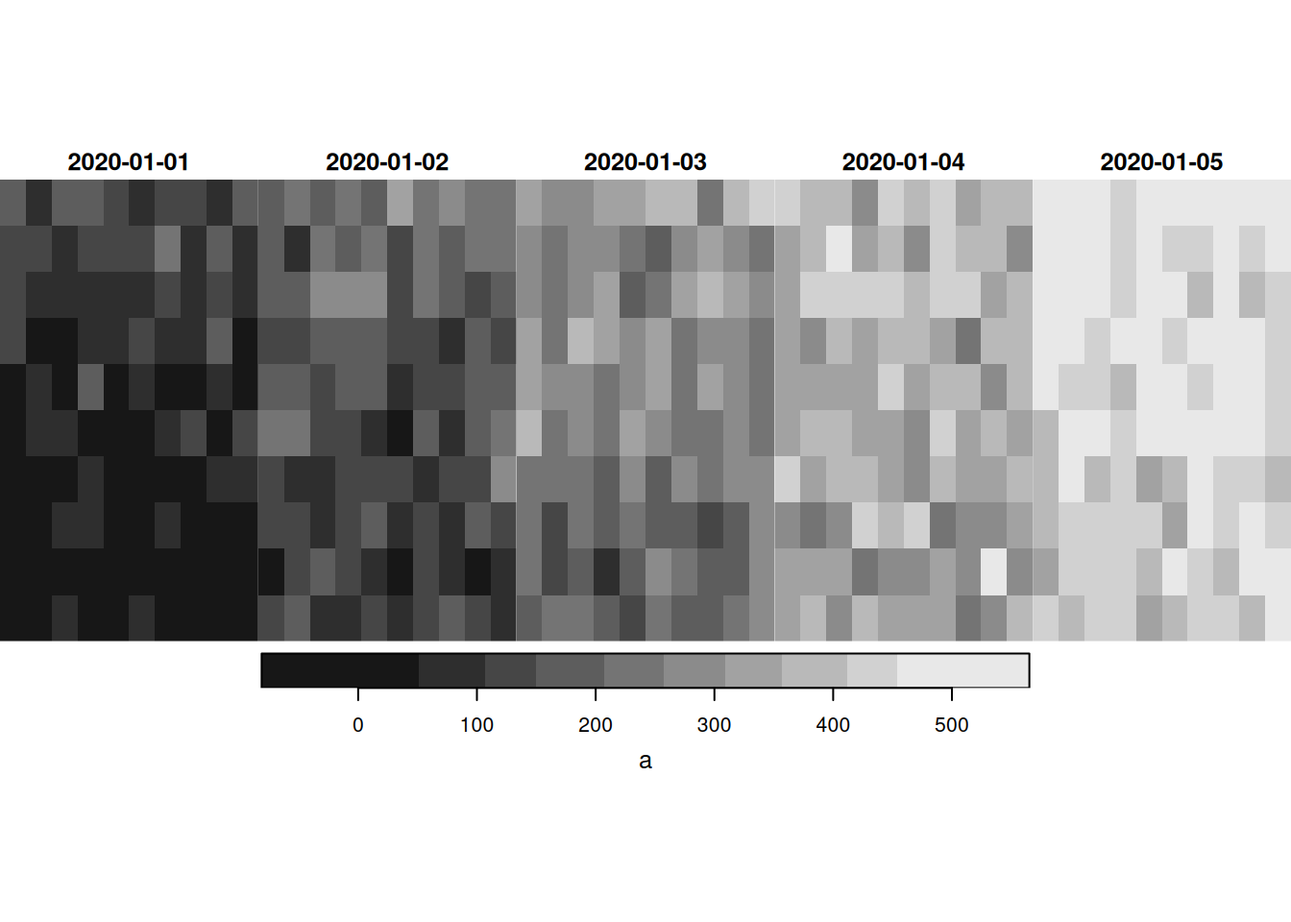
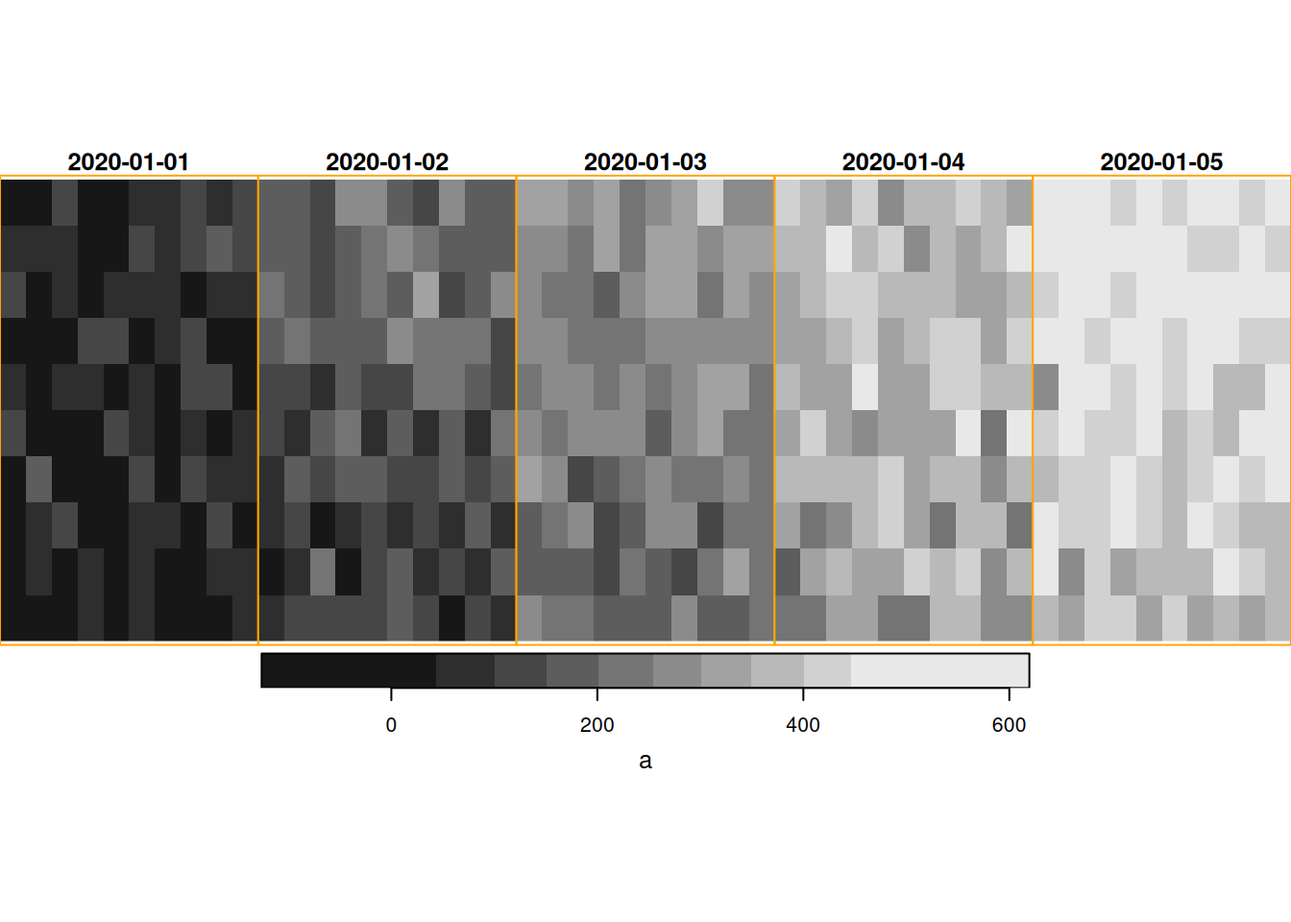
update

diff --git a/docs/index.html b/docs/index.html
@@ -82,7 +82,8 @@ pre > code.sourceCode > span > a:first-child::before { text-decoration: underlin
 
 <section id="raster-and-vector-data-cubes-in-r-and-python" class="level1">
 <h1>Raster and vector data cubes in R and Python</h1>
-<p>Edzer Pebesma, GitHub Copilot, 2024-06-19</p>
+<p>OpenGeoHub summer school tutorial Tue 2024-09-02, 13:30-15:00</p>
+<p>Authors: Edzer Pebesma, GitHub Copilot</p>
 <section id="what-is-an-array" class="level2">
 <h2 class="anchored" data-anchor-id="what-is-an-array">What is an array?</h2>
 <p>An array is a data structure that can hold multiple values in more than two dimensions. It is a generalization of matrices to higher dimensions. Arrays can be used to represent multi-dimensional data, such as images, videos, or spatial-temporal datasets.</p>
@@ -1129,6 +1130,10 @@ pre > code.sourceCode > span > a:first-child::before { text-decoration: underlin
 </div>
 </div>
 </section>
+<section id="linear-algebra-on-arrays" class="level3">
+<h3 class="anchored" data-anchor-id="linear-algebra-on-arrays">Linear algebra on arrays</h3>
+<p>With vectors and matrices we can do all linear algebra operations: matrix-vector multiplication, matrix-matrix multiplication, determinants, inverses, eigenvalues, singular value decomposition, etc. These operations form the basis for all statistical, ML and DL methods. This however is not the topic of this tutorial.</p>
+</section>
 </section>
 <section id="raster-and-vector-data-cubes" class="level2">
 <h2 class="anchored" data-anchor-id="raster-and-vector-data-cubes">Raster and vector data cubes</h2>
@@ -1158,8 +1163,8 @@ pre > code.sourceCode > span > a:first-child::before { text-decoration: underlin
 <div class="cell-output cell-output-stdout">
 <pre><code>stars object with 3 dimensions and 1 attribute
 attribute(s):
-        Min.  1st Qu.   Median    Mean  3rd Qu.     Max.
-a  -81.29993 130.1496 257.6527 255.745 387.9319 565.2139
+        Min.  1st Qu.  Median    Mean  3rd Qu.     Max.
+a  -125.9518 124.6869 253.972 250.637 378.6645 619.4411
 dimension(s):
      from to
 x       1 10
@@ -1175,8 +1180,8 @@ time    1  5</code></pre>
 <div class="cell-output cell-output-stdout">
 <pre><code>stars object with 3 dimensions and 1 attribute
 attribute(s):
-        Min.  1st Qu.   Median    Mean  3rd Qu.     Max.
-a  -81.29993 130.1496 257.6527 255.745 387.9319 565.2139
+        Min.  1st Qu.  Median    Mean  3rd Qu.     Max.
+a  -125.9518 124.6869 253.972 250.637 378.6645 619.4411
 dimension(s):
      from to     offset  delta         refsys x/y
 x       1 10          1      1 WGS 84 (CRS84) [x]
@@ -1184,7 +1189,7 @@ y       1 10         51      1 WGS 84 (CRS84) [y]
 time    1  5 2020-01-01 1 days           Date    </code></pre>
 </div>
 <div class="sourceCode cell-code" id="cb265"><pre class="sourceCode r code-with-copy"><code class="sourceCode r"><span id="cb265-1"><a href="#cb265-1" aria-hidden="true" tabindex="-1"></a><span class="co"># plot the first time slice</span></span>
-<span id="cb265-2"><a href="#cb265-2" aria-hidden="true" tabindex="-1"></a><span class="fu">plot</span>(raster_cube)</span></code><button title="Copy to Clipboard" class="code-copy-button"><i class="bi"></i></button></pre></div>
+<span id="cb265-2"><a href="#cb265-2" aria-hidden="true" tabindex="-1"></a><span class="fu">plot</span>(raster_cube, <span class="at">box_col =</span> <span class="st">'orange'</span>)</span></code><button title="Copy to Clipboard" class="code-copy-button"><i class="bi"></i></button></pre></div>
 <div class="cell-output-display">
 <div>
 <figure class="figure">
@@ -1199,12 +1204,13 @@ time    1  5 2020-01-01 1 days           Date    </code></pre>
 <div class="sourceCode cell-code" id="cb266"><pre class="sourceCode python code-with-copy"><code class="sourceCode python"><span id="cb266-1"><a href="#cb266-1" aria-hidden="true" tabindex="-1"></a><span class="im">import</span> numpy <span class="im">as</span> np</span>
 <span id="cb266-2"><a href="#cb266-2" aria-hidden="true" tabindex="-1"></a><span class="im">import</span> xarray <span class="im">as</span> xr</span>
 <span id="cb266-3"><a href="#cb266-3" aria-hidden="true" tabindex="-1"></a><span class="co"># create a 3D array with dimensions (x, y, time)</span></span>
-<span id="cb266-4"><a href="#cb266-4" aria-hidden="true" tabindex="-1"></a>data <span class="op">=</span> np.arange(<span class="dv">1</span>, <span class="dv">10</span><span class="op">*</span><span class="dv">10</span><span class="op">*</span><span class="dv">5</span> <span class="op">+</span> <span class="dv">1</span>).reshape((<span class="dv">10</span>, <span class="dv">10</span>, <span class="dv">5</span>)) <span class="op">+</span> np.random.normal(<span class="dv">0</span>, <span class="dv">50</span>, size<span class="op">=</span>(<span class="dv">10</span>, <span class="dv">10</span>, <span class="dv">5</span>))</span>
+<span id="cb266-4"><a href="#cb266-4" aria-hidden="true" tabindex="-1"></a>data <span class="op">=</span> np.arange(<span class="dv">1</span>, <span class="dv">5</span><span class="op">*</span><span class="dv">10</span><span class="op">*</span><span class="dv">10</span> <span class="op">+</span> <span class="dv">1</span>).reshape((<span class="dv">5</span>, <span class="dv">10</span>, <span class="dv">10</span>)) <span class="op">+</span> np.random.normal(<span class="dv">0</span>, <span class="dv">50</span>, size<span class="op">=</span>(<span class="dv">5</span>, <span class="dv">10</span>, <span class="dv">10</span>))</span>
 <span id="cb266-5"><a href="#cb266-5" aria-hidden="true" tabindex="-1"></a><span class="co"># create an xarray DataArray</span></span>
-<span id="cb266-6"><a href="#cb266-6" aria-hidden="true" tabindex="-1"></a>raster_cube <span class="op">=</span> xr.DataArray(data, dims<span class="op">=</span>(<span class="st">"y"</span>, <span class="st">"x"</span>, <span class="st">"time"</span>),</span>
-<span id="cb266-7"><a href="#cb266-7" aria-hidden="true" tabindex="-1"></a>                           coords<span class="op">=</span>{<span class="st">"y"</span>: np.arange(<span class="dv">51</span>, <span class="dv">61</span>),</span>
-<span id="cb266-8"><a href="#cb266-8" aria-hidden="true" tabindex="-1"></a>                                   <span class="st">"x"</span>: np.arange( <span class="dv">1</span>, <span class="dv">11</span>),</span>
-<span id="cb266-9"><a href="#cb266-9" aria-hidden="true" tabindex="-1"></a>                                   <span class="st">"time"</span>: np.arange(np.datetime64(<span class="st">'2020-01-01'</span>), np.datetime64(<span class="st">'2020-01-06'</span>))})</span></code><button title="Copy to Clipboard" class="code-copy-button"><i class="bi"></i></button></pre></div>
+<span id="cb266-6"><a href="#cb266-6" aria-hidden="true" tabindex="-1"></a>raster_cube <span class="op">=</span> xr.DataArray(data, dims<span class="op">=</span>(<span class="st">"time"</span>, <span class="st">"y"</span>, <span class="st">"x"</span>),</span>
+<span id="cb266-7"><a href="#cb266-7" aria-hidden="true" tabindex="-1"></a>                           coords<span class="op">=</span>{</span>
+<span id="cb266-8"><a href="#cb266-8" aria-hidden="true" tabindex="-1"></a>                                 <span class="st">"time"</span>: np.arange(np.datetime64(<span class="st">'2020-01-01'</span>), np.datetime64(<span class="st">'2020-01-06'</span>)),</span>
+<span id="cb266-9"><a href="#cb266-9" aria-hidden="true" tabindex="-1"></a>                                 <span class="st">"y"</span>: np.arange(<span class="dv">51</span>, <span class="dv">61</span>),</span>
+<span id="cb266-10"><a href="#cb266-10" aria-hidden="true" tabindex="-1"></a>                                 <span class="st">"x"</span>: np.arange( <span class="dv">1</span>, <span class="dv">11</span>)})</span></code><button title="Copy to Clipboard" class="code-copy-button"><i class="bi"></i></button></pre></div>
 <div class="cell-output cell-output-stdout">
 <pre><code>&lt;string&gt;:2: UserWarning: Converting non-nanosecond precision datetime values to nanosecond precision. This behavior can eventually be relaxed in xarray, as it is an artifact from pandas which is now beginning to support non-nanosecond precision values. This warning is caused by passing non-nanosecond np.datetime64 or np.timedelta64 values to the DataArray or Variable constructor; it can be silenced by converting the values to nanosecond precision ahead of time.</code></pre>
 </div>
@@ -1581,97 +1587,97 @@ dl.xr-attrs {
   stroke: currentColor;
   fill: currentColor;
 }
-</style><pre class="xr-text-repr-fallback">&lt;xarray.DataArray (y: 10, x: 10, time: 5)&gt; Size: 4kB
-array([[[ 26.52061064, -43.84987969,   4.57933343, -18.71236421,
-         -46.60317806],
-        [-48.98340415, -36.43788191,  12.28391227, -24.34511933,
-         -68.3688539 ],
-        [ 24.12493022,  47.22719861, -46.7213025 ,  20.07959215,
-          38.14047644],
-        [ -4.12218304, -18.68464858,  -1.37748913, -69.96227092,
-         -57.73872923],
-        [ 80.4407534 , -12.62333402, -23.72518382,  28.81168532,
-          21.91289615],
-        [-10.15248586,   3.8743532 ,  27.25304499, -36.27560769,
-          -4.4488943 ],
-        [137.87952225, -12.16241542, -21.17486756,  79.87799817,
-          -1.0274361 ],
-        [ 78.01619855,  85.05753051, -14.9802187 ,  19.64390891,
-           3.69602025],
-        [-34.27508642,  48.47905195, -45.84003559,  29.15998487,
-          27.54516838],
-        [ 75.69870913,  76.13250211, -28.15568644,  28.06402166,
-          37.49259483]],
+</style><pre class="xr-text-repr-fallback">&lt;xarray.DataArray (time: 5, y: 10, x: 10)&gt; Size: 4kB
+array([[[ 47.90700624,  29.7090488 ,  34.45235466, -49.3137364 ,
+         -41.57985308,  85.32619008, -38.53715136, -17.77676897,
+         -61.68611967, -40.05364642],
+        [ -2.01948765,  -5.24453474,   4.41572437, -33.30421026,
+          45.05459987,  13.86157213,  20.74886181,   1.61126733,
+         -89.96537338,  20.09470542],
+        [ 23.58301043,  34.12028412, -12.09575456,  33.87374815,
+         -29.26614022,  20.35406098,  48.22348237,  69.68100958,
+           3.48488172,  52.49924124],
+        [-33.69569188,  34.19676011, -44.19150406,  41.8132867 ,
+           6.96534264,  55.8321766 ,  66.30931179,  92.91026317,
+          55.66870718,  16.46330416],
+        [  8.81335316,  99.77534978,  47.88234153,  85.49628278,
+         -34.44903365, 111.51575862,  77.58391714,  27.92469936,
+          -6.03952891,  68.97762765],
+        [ 75.63955807, 120.05523497,  68.38305496,  57.2525457 ,
+         129.132241  ,  57.25877499,  68.00214528,  47.34695333,
+          38.21118939,  45.8611823 ],
+        [ 54.2879579 ,  67.34843396,  -3.31032394,  68.41806021,
+          45.45706395, 133.13686918,  54.89362053,  14.96592681,
 ...
-       [[401.80000313, 506.8352186 , 516.37600598, 462.97245167,
-         463.33555999],
-        [428.24996399, 376.68119032, 441.03009797, 628.16022253,
-         495.12905022],
-        [389.25313129, 502.16265476, 455.47654161, 477.21330157,
-         470.01752179],
-        [443.42437071, 442.59182736, 488.8713534 , 486.99044088,
-         539.84288828],
-        [507.4354579 , 417.43710818, 446.10771969, 570.7444511 ,
-         482.56439801],
-        [527.67346105, 403.45723213, 483.47517702, 442.11575542,
-         449.05164378],
-        [458.24353184, 553.68865024, 451.74130069, 432.69307498,
-         407.15247553],
-        [582.03035521, 451.99568897, 543.08275579, 403.27212963,
-         526.00339905],
-        [423.05336866, 526.47319024, 484.3931658 , 443.48314462,
-         507.48255535],
-        [595.34675207, 432.17381666, 411.11261106, 527.08470939,
-         485.57579171]]])
+         440.84396537, 413.36653453, 525.23991049, 505.86475851,
+         525.92752914, 420.46059261],
+        [382.3986447 , 458.58633081, 477.07999195, 442.65729279,
+         403.79605641, 460.1067809 , 493.22515607, 457.49939542,
+         481.70911887, 510.78386149],
+        [338.31325871, 471.16624577, 467.73001481, 526.93224693,
+         485.13257095, 453.83684046, 432.69376709, 489.85426746,
+         519.60348866, 488.71400504],
+        [422.7881884 , 541.07724886, 467.6072158 , 453.73401088,
+         501.51140213, 476.49407819, 435.62983148, 424.38276392,
+         406.16467322, 441.59447445],
+        [489.14368405, 506.08296126, 419.96845904, 395.90075405,
+         475.55885145, 591.08111831, 542.11775023, 415.0843963 ,
+         448.64735933, 456.67930288],
+        [512.26967924, 429.33243813, 485.75865292, 483.82269514,
+         435.77977645, 533.00739351, 467.69263755, 494.56751286,
+         540.82528021, 479.97070732],
+        [472.99916465, 505.2332267 , 571.34380948, 434.15280166,
+         509.61166291, 483.37125995, 481.32613227, 398.76339373,
+         572.69978061, 598.35603253]]])
 Coordinates:
+  * time         (time) datetime64[ns] 40B 2020-01-01 2020-01-02 ... 2020-01-05
   * y            (y) int64 80B 51 52 53 54 55 56 57 58 59 60
   * x            (x) int64 80B 1 2 3 4 5 6 7 8 9 10
-  * time         (time) datetime64[ns] 40B 2020-01-01 2020-01-02 ... 2020-01-05
-    spatial_ref  int64 8B 0</pre><div class="xr-wrap" style="display:none"><div class="xr-header"><div class="xr-obj-type">xarray.DataArray</div><div class="xr-array-name"></div><ul class="xr-dim-list"><li><span class="xr-has-index">y</span>: 10</li><li><span class="xr-has-index">x</span>: 10</li><li><span class="xr-has-index">time</span>: 5</li></ul></div><ul class="xr-sections"><li class="xr-section-item"><div class="xr-array-wrap"><input id="section-9324c506-9416-42e7-8f20-cc1d905b3308" class="xr-array-in" type="checkbox" checked=""><label for="section-9324c506-9416-42e7-8f20-cc1d905b3308" title="Show/hide data repr"><svg class="icon xr-icon-database"><use href="#icon-database"></use></svg></label><div class="xr-array-preview xr-preview"><span>26.52 -43.85 4.579 -18.71 -46.6 ... 595.3 432.2 411.1 527.1 485.6</span></div><div class="xr-array-data"><pre>array([[[ 26.52061064, -43.84987969,   4.57933343, -18.71236421,
-         -46.60317806],
-        [-48.98340415, -36.43788191,  12.28391227, -24.34511933,
-         -68.3688539 ],
-        [ 24.12493022,  47.22719861, -46.7213025 ,  20.07959215,
-          38.14047644],
-        [ -4.12218304, -18.68464858,  -1.37748913, -69.96227092,
-         -57.73872923],
-        [ 80.4407534 , -12.62333402, -23.72518382,  28.81168532,
-          21.91289615],
-        [-10.15248586,   3.8743532 ,  27.25304499, -36.27560769,
-          -4.4488943 ],
-        [137.87952225, -12.16241542, -21.17486756,  79.87799817,
-          -1.0274361 ],
-        [ 78.01619855,  85.05753051, -14.9802187 ,  19.64390891,
-           3.69602025],
-        [-34.27508642,  48.47905195, -45.84003559,  29.15998487,
-          27.54516838],
-        [ 75.69870913,  76.13250211, -28.15568644,  28.06402166,
-          37.49259483]],
+    spatial_ref  int64 8B 0</pre><div class="xr-wrap" style="display:none"><div class="xr-header"><div class="xr-obj-type">xarray.DataArray</div><div class="xr-array-name"></div><ul class="xr-dim-list"><li><span class="xr-has-index">time</span>: 5</li><li><span class="xr-has-index">y</span>: 10</li><li><span class="xr-has-index">x</span>: 10</li></ul></div><ul class="xr-sections"><li class="xr-section-item"><div class="xr-array-wrap"><input id="section-b48d1a71-8270-4db1-ad4a-19359192159b" class="xr-array-in" type="checkbox" checked=""><label for="section-b48d1a71-8270-4db1-ad4a-19359192159b" title="Show/hide data repr"><svg class="icon xr-icon-database"><use href="#icon-database"></use></svg></label><div class="xr-array-preview xr-preview"><span>47.91 29.71 34.45 -49.31 -41.58 ... 483.4 481.3 398.8 572.7 598.4</span></div><div class="xr-array-data"><pre>array([[[ 47.90700624,  29.7090488 ,  34.45235466, -49.3137364 ,
+         -41.57985308,  85.32619008, -38.53715136, -17.77676897,
+         -61.68611967, -40.05364642],
+        [ -2.01948765,  -5.24453474,   4.41572437, -33.30421026,
+          45.05459987,  13.86157213,  20.74886181,   1.61126733,
+         -89.96537338,  20.09470542],
+        [ 23.58301043,  34.12028412, -12.09575456,  33.87374815,
+         -29.26614022,  20.35406098,  48.22348237,  69.68100958,
+           3.48488172,  52.49924124],
+        [-33.69569188,  34.19676011, -44.19150406,  41.8132867 ,
+           6.96534264,  55.8321766 ,  66.30931179,  92.91026317,
+          55.66870718,  16.46330416],
+        [  8.81335316,  99.77534978,  47.88234153,  85.49628278,
+         -34.44903365, 111.51575862,  77.58391714,  27.92469936,
+          -6.03952891,  68.97762765],
+        [ 75.63955807, 120.05523497,  68.38305496,  57.2525457 ,
+         129.132241  ,  57.25877499,  68.00214528,  47.34695333,
+          38.21118939,  45.8611823 ],
+        [ 54.2879579 ,  67.34843396,  -3.31032394,  68.41806021,
+          45.45706395, 133.13686918,  54.89362053,  14.96592681,
 ...
-       [[401.80000313, 506.8352186 , 516.37600598, 462.97245167,
-         463.33555999],
-        [428.24996399, 376.68119032, 441.03009797, 628.16022253,
-         495.12905022],
-        [389.25313129, 502.16265476, 455.47654161, 477.21330157,
-         470.01752179],
-        [443.42437071, 442.59182736, 488.8713534 , 486.99044088,
-         539.84288828],
-        [507.4354579 , 417.43710818, 446.10771969, 570.7444511 ,
-         482.56439801],
-        [527.67346105, 403.45723213, 483.47517702, 442.11575542,
-         449.05164378],
-        [458.24353184, 553.68865024, 451.74130069, 432.69307498,
-         407.15247553],
-        [582.03035521, 451.99568897, 543.08275579, 403.27212963,
-         526.00339905],
-        [423.05336866, 526.47319024, 484.3931658 , 443.48314462,
-         507.48255535],
-        [595.34675207, 432.17381666, 411.11261106, 527.08470939,
-         485.57579171]]])</pre></div></div></li><li class="xr-section-item"><input id="section-0e573c92-ae3c-41ae-a66b-87dbc3be63fc" class="xr-section-summary-in" type="checkbox" checked=""><label for="section-0e573c92-ae3c-41ae-a66b-87dbc3be63fc" class="xr-section-summary">Coordinates: <span>(4)</span></label><div class="xr-section-inline-details"></div><div class="xr-section-details"><ul class="xr-var-list"><li class="xr-var-item"><div class="xr-var-name"><span class="xr-has-index">y</span></div><div class="xr-var-dims">(y)</div><div class="xr-var-dtype">int64</div><div class="xr-var-preview xr-preview">51 52 53 54 55 56 57 58 59 60</div><input id="attrs-bd86ac61-62e5-435e-aca6-9cd02dcd3fe9" class="xr-var-attrs-in" type="checkbox" disabled=""><label for="attrs-bd86ac61-62e5-435e-aca6-9cd02dcd3fe9" title="Show/Hide attributes"><svg class="icon xr-icon-file-text2"><use href="#icon-file-text2"></use></svg></label><input id="data-085590d0-81b6-4cdc-aa66-131466b241d6" class="xr-var-data-in" type="checkbox"><label for="data-085590d0-81b6-4cdc-aa66-131466b241d6" title="Show/Hide data repr"><svg class="icon xr-icon-database"><use href="#icon-database"></use></svg></label><div class="xr-var-attrs"><dl class="xr-attrs"></dl></div><div class="xr-var-data"><pre>array([51, 52, 53, 54, 55, 56, 57, 58, 59, 60])</pre></div></li><li class="xr-var-item"><div class="xr-var-name"><span class="xr-has-index">x</span></div><div class="xr-var-dims">(x)</div><div class="xr-var-dtype">int64</div><div class="xr-var-preview xr-preview">1 2 3 4 5 6 7 8 9 10</div><input id="attrs-5829bb04-37a4-4b20-80c4-b6d1b52df713" class="xr-var-attrs-in" type="checkbox" disabled=""><label for="attrs-5829bb04-37a4-4b20-80c4-b6d1b52df713" title="Show/Hide attributes"><svg class="icon xr-icon-file-text2"><use href="#icon-file-text2"></use></svg></label><input id="data-cb0b117c-70cf-4d8a-994b-ca4f58b352c2" class="xr-var-data-in" type="checkbox"><label for="data-cb0b117c-70cf-4d8a-994b-ca4f58b352c2" title="Show/Hide data repr"><svg class="icon xr-icon-database"><use href="#icon-database"></use></svg></label><div class="xr-var-attrs"><dl class="xr-attrs"></dl></div><div class="xr-var-data"><pre>array([ 1,  2,  3,  4,  5,  6,  7,  8,  9, 10])</pre></div></li><li class="xr-var-item"><div class="xr-var-name"><span class="xr-has-index">time</span></div><div class="xr-var-dims">(time)</div><div class="xr-var-dtype">datetime64[ns]</div><div class="xr-var-preview xr-preview">2020-01-01 ... 2020-01-05</div><input id="attrs-9be369f4-e855-49cf-9555-6612e6853f2b" class="xr-var-attrs-in" type="checkbox" disabled=""><label for="attrs-9be369f4-e855-49cf-9555-6612e6853f2b" title="Show/Hide attributes"><svg class="icon xr-icon-file-text2"><use href="#icon-file-text2"></use></svg></label><input id="data-d104e0db-89f0-41dd-9ad8-d224c400c543" class="xr-var-data-in" type="checkbox"><label for="data-d104e0db-89f0-41dd-9ad8-d224c400c543" title="Show/Hide data repr"><svg class="icon xr-icon-database"><use href="#icon-database"></use></svg></label><div class="xr-var-attrs"><dl class="xr-attrs"></dl></div><div class="xr-var-data"><pre>array(['2020-01-01T00:00:00.000000000', '2020-01-02T00:00:00.000000000',
+         440.84396537, 413.36653453, 525.23991049, 505.86475851,
+         525.92752914, 420.46059261],
+        [382.3986447 , 458.58633081, 477.07999195, 442.65729279,
+         403.79605641, 460.1067809 , 493.22515607, 457.49939542,
+         481.70911887, 510.78386149],
+        [338.31325871, 471.16624577, 467.73001481, 526.93224693,
+         485.13257095, 453.83684046, 432.69376709, 489.85426746,
+         519.60348866, 488.71400504],
+        [422.7881884 , 541.07724886, 467.6072158 , 453.73401088,
+         501.51140213, 476.49407819, 435.62983148, 424.38276392,
+         406.16467322, 441.59447445],
+        [489.14368405, 506.08296126, 419.96845904, 395.90075405,
+         475.55885145, 591.08111831, 542.11775023, 415.0843963 ,
+         448.64735933, 456.67930288],
+        [512.26967924, 429.33243813, 485.75865292, 483.82269514,
+         435.77977645, 533.00739351, 467.69263755, 494.56751286,
+         540.82528021, 479.97070732],
+        [472.99916465, 505.2332267 , 571.34380948, 434.15280166,
+         509.61166291, 483.37125995, 481.32613227, 398.76339373,
+         572.69978061, 598.35603253]]])</pre></div></div></li><li class="xr-section-item"><input id="section-129cd23b-2cef-4924-b0d6-42ed1a8b7c5f" class="xr-section-summary-in" type="checkbox" checked=""><label for="section-129cd23b-2cef-4924-b0d6-42ed1a8b7c5f" class="xr-section-summary">Coordinates: <span>(4)</span></label><div class="xr-section-inline-details"></div><div class="xr-section-details"><ul class="xr-var-list"><li class="xr-var-item"><div class="xr-var-name"><span class="xr-has-index">time</span></div><div class="xr-var-dims">(time)</div><div class="xr-var-dtype">datetime64[ns]</div><div class="xr-var-preview xr-preview">2020-01-01 ... 2020-01-05</div><input id="attrs-85697ba5-8cc8-46ff-88ee-219852b0ab7f" class="xr-var-attrs-in" type="checkbox" disabled=""><label for="attrs-85697ba5-8cc8-46ff-88ee-219852b0ab7f" title="Show/Hide attributes"><svg class="icon xr-icon-file-text2"><use href="#icon-file-text2"></use></svg></label><input id="data-f24e718e-ae4d-4d04-85f9-a3619cdbc038" class="xr-var-data-in" type="checkbox"><label for="data-f24e718e-ae4d-4d04-85f9-a3619cdbc038" title="Show/Hide data repr"><svg class="icon xr-icon-database"><use href="#icon-database"></use></svg></label><div class="xr-var-attrs"><dl class="xr-attrs"></dl></div><div class="xr-var-data"><pre>array(['2020-01-01T00:00:00.000000000', '2020-01-02T00:00:00.000000000',
        '2020-01-03T00:00:00.000000000', '2020-01-04T00:00:00.000000000',
-       '2020-01-05T00:00:00.000000000'], dtype='datetime64[ns]')</pre></div></li><li class="xr-var-item"><div class="xr-var-name"><span>spatial_ref</span></div><div class="xr-var-dims">()</div><div class="xr-var-dtype">int64</div><div class="xr-var-preview xr-preview">0</div><input id="attrs-ecdc30f0-8481-4636-8dff-42118f8b9c1d" class="xr-var-attrs-in" type="checkbox"><label for="attrs-ecdc30f0-8481-4636-8dff-42118f8b9c1d" title="Show/Hide attributes"><svg class="icon xr-icon-file-text2"><use href="#icon-file-text2"></use></svg></label><input id="data-82b047df-af66-4f38-90d1-82f40f710a1a" class="xr-var-data-in" type="checkbox"><label for="data-82b047df-af66-4f38-90d1-82f40f710a1a" title="Show/Hide data repr"><svg class="icon xr-icon-database"><use href="#icon-database"></use></svg></label><div class="xr-var-attrs"><dl class="xr-attrs"><dt><span>crs_wkt :</span></dt><dd>GEOGCS["WGS 84",DATUM["WGS_1984",SPHEROID["WGS 84",6378137,298.257223563,AUTHORITY["EPSG","7030"]],AUTHORITY["EPSG","6326"]],PRIMEM["Greenwich",0,AUTHORITY["EPSG","8901"]],UNIT["degree",0.0174532925199433,AUTHORITY["EPSG","9122"]],AXIS["Latitude",NORTH],AXIS["Longitude",EAST],AUTHORITY["EPSG","4326"]]</dd><dt><span>semi_major_axis :</span></dt><dd>6378137.0</dd><dt><span>semi_minor_axis :</span></dt><dd>6356752.314245179</dd><dt><span>inverse_flattening :</span></dt><dd>298.257223563</dd><dt><span>reference_ellipsoid_name :</span></dt><dd>WGS 84</dd><dt><span>longitude_of_prime_meridian :</span></dt><dd>0.0</dd><dt><span>prime_meridian_name :</span></dt><dd>Greenwich</dd><dt><span>geographic_crs_name :</span></dt><dd>WGS 84</dd><dt><span>horizontal_datum_name :</span></dt><dd>World Geodetic System 1984</dd><dt><span>grid_mapping_name :</span></dt><dd>latitude_longitude</dd><dt><span>spatial_ref :</span></dt><dd>GEOGCS["WGS 84",DATUM["WGS_1984",SPHEROID["WGS 84",6378137,298.257223563,AUTHORITY["EPSG","7030"]],AUTHORITY["EPSG","6326"]],PRIMEM["Greenwich",0,AUTHORITY["EPSG","8901"]],UNIT["degree",0.0174532925199433,AUTHORITY["EPSG","9122"]],AXIS["Latitude",NORTH],AXIS["Longitude",EAST],AUTHORITY["EPSG","4326"]]</dd></dl></div><div class="xr-var-data"><pre>array(0)</pre></div></li></ul></div></li><li class="xr-section-item"><input id="section-d033a280-6b0a-4064-828b-453521181838" class="xr-section-summary-in" type="checkbox"><label for="section-d033a280-6b0a-4064-828b-453521181838" class="xr-section-summary">Indexes: <span>(3)</span></label><div class="xr-section-inline-details"></div><div class="xr-section-details"><ul class="xr-var-list"><li class="xr-var-item"><div class="xr-index-name"><div>y</div></div><div class="xr-index-preview">PandasIndex</div><div></div><input id="index-ce48ca70-f5be-42ba-8b8e-52dc10ea12b2" class="xr-index-data-in" type="checkbox"><label for="index-ce48ca70-f5be-42ba-8b8e-52dc10ea12b2" title="Show/Hide index repr"><svg class="icon xr-icon-database"><use href="#icon-database"></use></svg></label><div class="xr-index-data"><pre>PandasIndex(Index([51, 52, 53, 54, 55, 56, 57, 58, 59, 60], dtype='int64', name='y'))</pre></div></li><li class="xr-var-item"><div class="xr-index-name"><div>x</div></div><div class="xr-index-preview">PandasIndex</div><div></div><input id="index-19c74516-d0fc-4bcb-939e-7b95c158d7b3" class="xr-index-data-in" type="checkbox"><label for="index-19c74516-d0fc-4bcb-939e-7b95c158d7b3" title="Show/Hide index repr"><svg class="icon xr-icon-database"><use href="#icon-database"></use></svg></label><div class="xr-index-data"><pre>PandasIndex(Index([1, 2, 3, 4, 5, 6, 7, 8, 9, 10], dtype='int64', name='x'))</pre></div></li><li class="xr-var-item"><div class="xr-index-name"><div>time</div></div><div class="xr-index-preview">PandasIndex</div><div></div><input id="index-92b4f23d-0f24-4ab1-b411-d1327a5932cb" class="xr-index-data-in" type="checkbox"><label for="index-92b4f23d-0f24-4ab1-b411-d1327a5932cb" title="Show/Hide index repr"><svg class="icon xr-icon-database"><use href="#icon-database"></use></svg></label><div class="xr-index-data"><pre>PandasIndex(DatetimeIndex(['2020-01-01', '2020-01-02', '2020-01-03', '2020-01-04',
+       '2020-01-05T00:00:00.000000000'], dtype='datetime64[ns]')</pre></div></li><li class="xr-var-item"><div class="xr-var-name"><span class="xr-has-index">y</span></div><div class="xr-var-dims">(y)</div><div class="xr-var-dtype">int64</div><div class="xr-var-preview xr-preview">51 52 53 54 55 56 57 58 59 60</div><input id="attrs-0b9fa8e2-95ad-4028-9676-f90c06852966" class="xr-var-attrs-in" type="checkbox" disabled=""><label for="attrs-0b9fa8e2-95ad-4028-9676-f90c06852966" title="Show/Hide attributes"><svg class="icon xr-icon-file-text2"><use href="#icon-file-text2"></use></svg></label><input id="data-81e66880-2d14-4126-b6e5-37ee82e66045" class="xr-var-data-in" type="checkbox"><label for="data-81e66880-2d14-4126-b6e5-37ee82e66045" title="Show/Hide data repr"><svg class="icon xr-icon-database"><use href="#icon-database"></use></svg></label><div class="xr-var-attrs"><dl class="xr-attrs"></dl></div><div class="xr-var-data"><pre>array([51, 52, 53, 54, 55, 56, 57, 58, 59, 60])</pre></div></li><li class="xr-var-item"><div class="xr-var-name"><span class="xr-has-index">x</span></div><div class="xr-var-dims">(x)</div><div class="xr-var-dtype">int64</div><div class="xr-var-preview xr-preview">1 2 3 4 5 6 7 8 9 10</div><input id="attrs-8ca339c6-1ba6-4699-86c1-cf51437c468e" class="xr-var-attrs-in" type="checkbox" disabled=""><label for="attrs-8ca339c6-1ba6-4699-86c1-cf51437c468e" title="Show/Hide attributes"><svg class="icon xr-icon-file-text2"><use href="#icon-file-text2"></use></svg></label><input id="data-4421cf1d-3f2e-416e-bb4a-a5386b20d9a0" class="xr-var-data-in" type="checkbox"><label for="data-4421cf1d-3f2e-416e-bb4a-a5386b20d9a0" title="Show/Hide data repr"><svg class="icon xr-icon-database"><use href="#icon-database"></use></svg></label><div class="xr-var-attrs"><dl class="xr-attrs"></dl></div><div class="xr-var-data"><pre>array([ 1,  2,  3,  4,  5,  6,  7,  8,  9, 10])</pre></div></li><li class="xr-var-item"><div class="xr-var-name"><span>spatial_ref</span></div><div class="xr-var-dims">()</div><div class="xr-var-dtype">int64</div><div class="xr-var-preview xr-preview">0</div><input id="attrs-bf739e9f-d5cf-43cc-9a2f-f4d7b9cb85d9" class="xr-var-attrs-in" type="checkbox"><label for="attrs-bf739e9f-d5cf-43cc-9a2f-f4d7b9cb85d9" title="Show/Hide attributes"><svg class="icon xr-icon-file-text2"><use href="#icon-file-text2"></use></svg></label><input id="data-44e4b2f6-72b4-419c-b969-53a8e5a1951a" class="xr-var-data-in" type="checkbox"><label for="data-44e4b2f6-72b4-419c-b969-53a8e5a1951a" title="Show/Hide data repr"><svg class="icon xr-icon-database"><use href="#icon-database"></use></svg></label><div class="xr-var-attrs"><dl class="xr-attrs"><dt><span>crs_wkt :</span></dt><dd>GEOGCS["WGS 84",DATUM["WGS_1984",SPHEROID["WGS 84",6378137,298.257223563,AUTHORITY["EPSG","7030"]],AUTHORITY["EPSG","6326"]],PRIMEM["Greenwich",0,AUTHORITY["EPSG","8901"]],UNIT["degree",0.0174532925199433,AUTHORITY["EPSG","9122"]],AXIS["Latitude",NORTH],AXIS["Longitude",EAST],AUTHORITY["EPSG","4326"]]</dd><dt><span>semi_major_axis :</span></dt><dd>6378137.0</dd><dt><span>semi_minor_axis :</span></dt><dd>6356752.314245179</dd><dt><span>inverse_flattening :</span></dt><dd>298.257223563</dd><dt><span>reference_ellipsoid_name :</span></dt><dd>WGS 84</dd><dt><span>longitude_of_prime_meridian :</span></dt><dd>0.0</dd><dt><span>prime_meridian_name :</span></dt><dd>Greenwich</dd><dt><span>geographic_crs_name :</span></dt><dd>WGS 84</dd><dt><span>horizontal_datum_name :</span></dt><dd>World Geodetic System 1984</dd><dt><span>grid_mapping_name :</span></dt><dd>latitude_longitude</dd><dt><span>spatial_ref :</span></dt><dd>GEOGCS["WGS 84",DATUM["WGS_1984",SPHEROID["WGS 84",6378137,298.257223563,AUTHORITY["EPSG","7030"]],AUTHORITY["EPSG","6326"]],PRIMEM["Greenwich",0,AUTHORITY["EPSG","8901"]],UNIT["degree",0.0174532925199433,AUTHORITY["EPSG","9122"]],AXIS["Latitude",NORTH],AXIS["Longitude",EAST],AUTHORITY["EPSG","4326"]]</dd></dl></div><div class="xr-var-data"><pre>array(0)</pre></div></li></ul></div></li><li class="xr-section-item"><input id="section-95972f59-da2d-44cf-b106-48d03e04ab3c" class="xr-section-summary-in" type="checkbox"><label for="section-95972f59-da2d-44cf-b106-48d03e04ab3c" class="xr-section-summary">Indexes: <span>(3)</span></label><div class="xr-section-inline-details"></div><div class="xr-section-details"><ul class="xr-var-list"><li class="xr-var-item"><div class="xr-index-name"><div>time</div></div><div class="xr-index-preview">PandasIndex</div><div></div><input id="index-f5ead1a2-ae3b-4b4b-93f9-1ad87cd62da8" class="xr-index-data-in" type="checkbox"><label for="index-f5ead1a2-ae3b-4b4b-93f9-1ad87cd62da8" title="Show/Hide index repr"><svg class="icon xr-icon-database"><use href="#icon-database"></use></svg></label><div class="xr-index-data"><pre>PandasIndex(DatetimeIndex(['2020-01-01', '2020-01-02', '2020-01-03', '2020-01-04',
                '2020-01-05'],
-              dtype='datetime64[ns]', name='time', freq=None))</pre></div></li></ul></div></li><li class="xr-section-item"><input id="section-44398139-f7a1-49d9-b48c-7191326c1c54" class="xr-section-summary-in" type="checkbox" disabled=""><label for="section-44398139-f7a1-49d9-b48c-7191326c1c54" class="xr-section-summary" title="Expand/collapse section">Attributes: <span>(0)</span></label><div class="xr-section-inline-details"></div><div class="xr-section-details"><dl class="xr-attrs"></dl></div></li></ul></div></div>
+              dtype='datetime64[ns]', name='time', freq=None))</pre></div></li><li class="xr-var-item"><div class="xr-index-name"><div>y</div></div><div class="xr-index-preview">PandasIndex</div><div></div><input id="index-ca8d62f1-c508-4b60-9ab6-c6002099674c" class="xr-index-data-in" type="checkbox"><label for="index-ca8d62f1-c508-4b60-9ab6-c6002099674c" title="Show/Hide index repr"><svg class="icon xr-icon-database"><use href="#icon-database"></use></svg></label><div class="xr-index-data"><pre>PandasIndex(Index([51, 52, 53, 54, 55, 56, 57, 58, 59, 60], dtype='int64', name='y'))</pre></div></li><li class="xr-var-item"><div class="xr-index-name"><div>x</div></div><div class="xr-index-preview">PandasIndex</div><div></div><input id="index-1b58c5da-12d3-47e7-92c0-3db0ad8d0384" class="xr-index-data-in" type="checkbox"><label for="index-1b58c5da-12d3-47e7-92c0-3db0ad8d0384" title="Show/Hide index repr"><svg class="icon xr-icon-database"><use href="#icon-database"></use></svg></label><div class="xr-index-data"><pre>PandasIndex(Index([1, 2, 3, 4, 5, 6, 7, 8, 9, 10], dtype='int64', name='x'))</pre></div></li></ul></div></li><li class="xr-section-item"><input id="section-5e97f445-dd89-4ce3-8ed0-26f3fa1d016f" class="xr-section-summary-in" type="checkbox" disabled=""><label for="section-5e97f445-dd89-4ce3-8ed0-26f3fa1d016f" class="xr-section-summary" title="Expand/collapse section">Attributes: <span>(0)</span></label><div class="xr-section-inline-details"></div><div class="xr-section-details"><dl class="xr-attrs"></dl></div></li></ul></div></div>
 </div>
 <div class="sourceCode cell-code" id="cb271"><pre class="sourceCode python code-with-copy"><code class="sourceCode python"><span id="cb271-1"><a href="#cb271-1" aria-hidden="true" tabindex="-1"></a><span class="co"># plot the first time slice</span></span>
 <span id="cb271-2"><a href="#cb271-2" aria-hidden="true" tabindex="-1"></a>raster_cube.isel(time<span class="op">=</span><span class="dv">0</span>).plot()</span></code><button title="Copy to Clipboard" class="code-copy-button"><i class="bi"></i></button></pre></div>
@@ -1683,10 +1689,100 @@ Coordinates:
 </div>
 </div>
 </div>
+</div>
+</div>
+</div>
 <p>Raster data cubes are multi-dimensional arrays that represent spatial-temporal data. They can be used to store and analyze data such as satellite imagery, climate data, or any other data that varies over space and time.</p>
+</section>
+<section id="real-data" class="level3">
+<h3 class="anchored" data-anchor-id="real-data">Real data</h3>
+<div class="tabset-margin-container"></div><div class="panel-tabset">
+<ul class="nav nav-tabs" role="tablist"><li class="nav-item" role="presentation"><a class="nav-link active" id="tabset-5-1-tab" data-bs-toggle="tab" data-bs-target="#tabset-5-1" role="tab" aria-controls="tabset-5-1" aria-selected="true" href="">R</a></li><li class="nav-item" role="presentation"><a class="nav-link" id="tabset-5-2-tab" data-bs-toggle="tab" data-bs-target="#tabset-5-2" role="tab" aria-controls="tabset-5-2" aria-selected="false" href="">Python</a></li></ul>
+<div class="tab-content">
+<div id="tabset-5-1" class="tab-pane active" role="tabpanel" aria-labelledby="tabset-5-1-tab">
+<div class="cell">
+<div class="sourceCode cell-code" id="cb272"><pre class="sourceCode r code-with-copy"><code class="sourceCode r"><span id="cb272-1"><a href="#cb272-1" aria-hidden="true" tabindex="-1"></a>tif <span class="ot">&lt;-</span> <span class="fu">system.file</span>(<span class="st">"tif/L7_ETMs.tif"</span>, <span class="at">package =</span> <span class="st">"stars"</span>)</span>
+<span id="cb272-2"><a href="#cb272-2" aria-hidden="true" tabindex="-1"></a><span class="fu">library</span>(stars)</span>
+<span id="cb272-3"><a href="#cb272-3" aria-hidden="true" tabindex="-1"></a>(r <span class="ot">&lt;-</span> <span class="fu">read_stars</span>(tif))</span></code><button title="Copy to Clipboard" class="code-copy-button"><i class="bi"></i></button></pre></div>
+<div class="cell-output cell-output-stdout">
+<pre><code>stars object with 3 dimensions and 1 attribute
+attribute(s):
+             Min. 1st Qu. Median     Mean 3rd Qu. Max.
+L7_ETMs.tif     1      54     69 68.91242      86  255
+dimension(s):
+     from  to  offset delta                     refsys point x/y
+x       1 349  288776  28.5 SIRGAS 2000 / UTM zone 25S FALSE [x]
+y       1 352 9120761 -28.5 SIRGAS 2000 / UTM zone 25S FALSE [y]
+band    1   6      NA    NA                         NA    NA    </code></pre>
 </div>
 </div>
 </div>
+<div id="tabset-5-2" class="tab-pane" role="tabpanel" aria-labelledby="tabset-5-2-tab">
+<div class="cell">
+<div class="sourceCode cell-code" id="cb274"><pre class="sourceCode python code-with-copy"><code class="sourceCode python"><span id="cb274-1"><a href="#cb274-1" aria-hidden="true" tabindex="-1"></a><span class="im">import</span> xarray <span class="im">as</span> xr</span>
+<span id="cb274-2"><a href="#cb274-2" aria-hidden="true" tabindex="-1"></a><span class="im">import</span> rioxarray <span class="im">as</span> rxr</span>
+<span id="cb274-3"><a href="#cb274-3" aria-hidden="true" tabindex="-1"></a>r <span class="op">=</span> rxr.open_rasterio(<span class="st">'https://github.com/r-spatial/stars/raw/refs/heads/main/inst/tif/L7_ETMs.tif'</span>)</span>
+<span id="cb274-4"><a href="#cb274-4" aria-hidden="true" tabindex="-1"></a><span class="bu">print</span>(r)</span></code><button title="Copy to Clipboard" class="code-copy-button"><i class="bi"></i></button></pre></div>
+<div class="cell-output cell-output-stdout">
+<pre><code>&lt;xarray.DataArray (band: 6, y: 352, x: 349)&gt; Size: 737kB
+[737088 values with dtype=uint8]
+Coordinates:
+  * band         (band) int64 48B 1 2 3 4 5 6
+  * x            (x) float64 3kB 2.888e+05 2.888e+05 ... 2.987e+05 2.987e+05
+  * y            (y) float64 3kB 9.121e+06 9.121e+06 ... 9.111e+06 9.111e+06
+    spatial_ref  int64 8B 0
+Attributes:
+    AREA_OR_POINT:  Area
+    scale_factor:   1.0
+    add_offset:     0.0</code></pre>
+</div>
+</div>
+</div>
+</div>
+</div>
+<p>Plotting:</p>
+<div class="tabset-margin-container"></div><div class="panel-tabset">
+<ul class="nav nav-tabs" role="tablist"><li class="nav-item" role="presentation"><a class="nav-link active" id="tabset-6-1-tab" data-bs-toggle="tab" data-bs-target="#tabset-6-1" role="tab" aria-controls="tabset-6-1" aria-selected="true" href="">R</a></li><li class="nav-item" role="presentation"><a class="nav-link" id="tabset-6-2-tab" data-bs-toggle="tab" data-bs-target="#tabset-6-2" role="tab" aria-controls="tabset-6-2" aria-selected="false" href="">Python</a></li></ul>
+<div class="tab-content">
+<div id="tabset-6-1" class="tab-pane active" role="tabpanel" aria-labelledby="tabset-6-1-tab">
+<div class="cell">
+<div class="sourceCode cell-code" id="cb276"><pre class="sourceCode r code-with-copy"><code class="sourceCode r"><span id="cb276-1"><a href="#cb276-1" aria-hidden="true" tabindex="-1"></a><span class="fu">plot</span>(r)</span></code><button title="Copy to Clipboard" class="code-copy-button"><i class="bi"></i></button></pre></div>
+<div class="cell-output-display">
+<div>
+<figure class="figure">
+<p><img src="rvdc_files/figure-html/unnamed-chunk-17-1.png" class="img-fluid figure-img" width="672"></p>
+</figure>
+</div>
+</div>
+</div>
+</div>
+<div id="tabset-6-2" class="tab-pane" role="tabpanel" aria-labelledby="tabset-6-2-tab">
+<div class="cell">
+<div class="sourceCode cell-code" id="cb277"><pre class="sourceCode python code-with-copy"><code class="sourceCode python"><span id="cb277-1"><a href="#cb277-1" aria-hidden="true" tabindex="-1"></a>r.plot() <span class="co"># too bad</span></span></code><button title="Copy to Clipboard" class="code-copy-button"><i class="bi"></i></button></pre></div>
+<div class="cell-output-display">
+<div>
+<figure class="figure">
+<p><img src="rvdc_files/figure-html/unnamed-chunk-18-1.png" class="img-fluid figure-img" width="672"></p>
+</figure>
+</div>
+</div>
+</div>
+<div class="cell">
+<div class="sourceCode cell-code" id="cb278"><pre class="sourceCode python code-with-copy"><code class="sourceCode python"><span id="cb278-1"><a href="#cb278-1" aria-hidden="true" tabindex="-1"></a>r.isel(band<span class="op">=</span><span class="dv">0</span>).plot()</span></code><button title="Copy to Clipboard" class="code-copy-button"><i class="bi"></i></button></pre></div>
+<div class="cell-output-display">
+<div>
+<figure class="figure">
+<p><img src="rvdc_files/figure-html/unnamed-chunk-19-3.png" class="img-fluid figure-img" width="672"></p>
+</figure>
+</div>
+</div>
+</div>
+</div>
+</div>
+</div>
+</section>
+<section id="vector-data-cubes" class="level3">
+<h3 class="anchored" data-anchor-id="vector-data-cubes">Vector data cubes</h3>
 </section>
 </section>
 </section>
